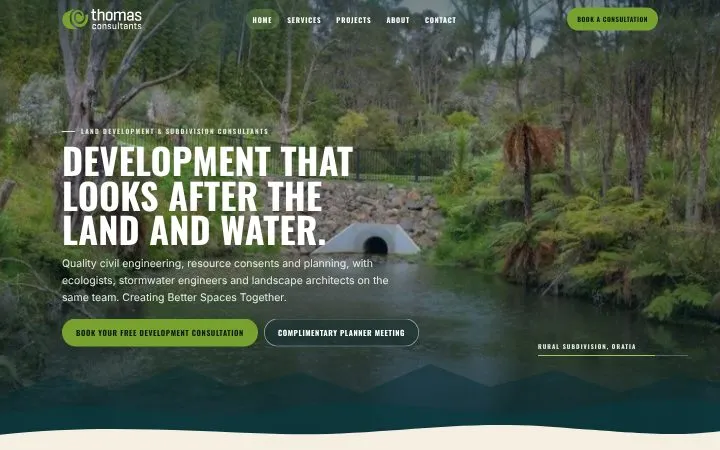
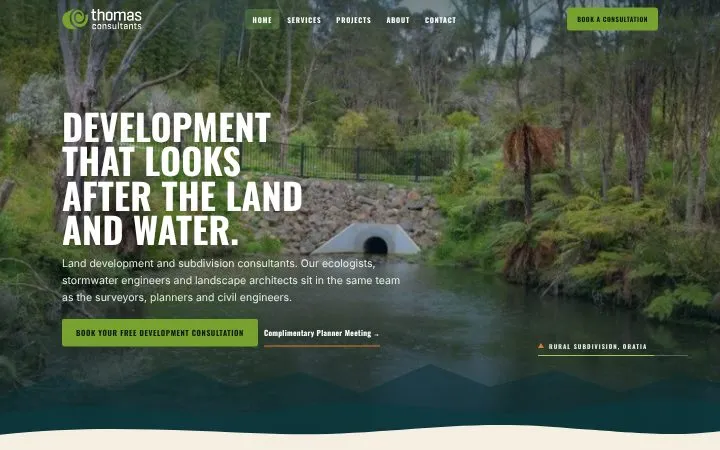
Phase 7 (de-template) in progress
Claude-Session: https://claude.ai/code/session_01Bfoqaxngz2DAAE1X5nW1mk

diff --git a/thomas-consultants/designs/09-kinetic/services.html b/thomas-consultants/designs/09-kinetic/services.html
@@ -583,16 +583,16 @@ h1 em,.h2 em,.velo em,.ln em{display:inline-block}
 .pull--wide{max-width:none;margin-top:clamp(48px,7vw,96px)}
 .pull--wide blockquote{font-size:clamp(1.3rem,2.6vw,2.4rem)}
 /* services: how a job runs */
-.runs{list-style:none;margin:0;padding:0;border-top:1px solid var(--line)}
-.run{display:grid;grid-template-columns:clamp(56px,7vw,110px) minmax(0,1.1fr) minmax(0,1.3fr) clamp(120px,16vw,230px);gap:clamp(16px,3vw,44px);align-items:center;padding:clamp(20px,3vw,36px) 0;border-bottom:1px solid var(--line)}
-.run__n{font-family:var(--display);font-weight:800;font-size:clamp(2rem,4.4vw,4.2rem);line-height:.8;letter-spacing:-.06em;color:var(--lime);font-variant-numeric:tabular-nums}
-.run h3{white-space:nowrap;font-family:var(--display);font-weight:800;text-transform:uppercase;font-size:clamp(1.6rem,min(3.3vw,7vh),3.3rem);line-height:.88;letter-spacing:-.045em;margin:0;transition:transform .6s var(--out)}
-.run:hover h3{transform:translateX(14px)}
-.run__t{margin:10px 0 0;color:var(--lime);font-weight:600}
-.run__d{margin:0;color:var(--muted);max-width:46ch}
-.run__m{aspect-ratio:4/3;border-radius:14px;overflow:hidden;background:var(--ink-3)}
-.run__m img{width:100%;height:100%;object-fit:cover;transition:transform .8s var(--out)}
-.run:hover .run__m img{transform:scale(1.06)}
+.jruns{list-style:none;margin:0;padding:0;border-top:1px solid var(--line)}
+.jrun{display:grid;grid-template-columns:clamp(56px,7vw,110px) minmax(0,1.1fr) minmax(0,1.3fr) clamp(120px,16vw,230px);gap:clamp(16px,3vw,44px);align-items:center;padding:clamp(20px,3vw,36px) 0;border-bottom:1px solid var(--line)}
+.jrun__n{font-family:var(--display);font-weight:800;font-size:clamp(2rem,4.4vw,4.2rem);line-height:.8;letter-spacing:-.06em;color:var(--lime);font-variant-numeric:tabular-nums}
+.jrun h3{white-space:nowrap;font-family:var(--display);font-weight:800;text-transform:uppercase;font-size:clamp(1.6rem,min(3.3vw,7vh),3.3rem);line-height:.88;letter-spacing:-.045em;margin:0;transition:transform .6s var(--out)}
+.jrun:hover h3{transform:translateX(14px)}
+.jrun__t{margin:10px 0 0;color:var(--lime);font-weight:600}
+.jrun__d{margin:0;color:var(--muted);max-width:46ch}
+.jrun__m{aspect-ratio:4/3;border-radius:14px;overflow:hidden;background:var(--ink-3)}
+.jrun__m img{width:100%;height:100%;object-fit:cover;transition:transform .8s var(--out)}
+.jrun:hover .jrun__m img{transform:scale(1.06)}
 /* about: people list */
 .people{list-style:none;margin:0;padding:0;border-top:1px solid var(--ink-line)}
 .person>a,.person>div{display:grid;grid-template-columns:minmax(0,1.5fr) minmax(0,.75fr) minmax(0,1.3fr) 24px;gap:clamp(14px,3vw,40px);align-items:baseline;padding:clamp(18px,2.6vw,30px) 0;border-bottom:1px solid var(--ink-line);text-decoration:none;color:inherit;position:relative}
@@ -625,9 +625,9 @@ h1 em,.h2 em,.velo em,.ln em{display:inline-block}
 .footer__lead{font-family:var(--sans);font-weight:400;font-size:16px;color:var(--muted);max-width:34ch;line-height:1.5}
 .footer__soc{grid-auto-flow:column;justify-content:start;gap:2px 18px!important}
 @media (max-width:900px){
-  .run{grid-template-columns:auto minmax(0,1fr);align-items:start}
-  .run__d{grid-column:2}
-  .run__m{grid-column:2;max-width:320px}
+  .jrun{grid-template-columns:auto minmax(0,1fr);align-items:start}
+  .jrun__d{grid-column:2}
+  .jrun__m{grid-column:2;max-width:320px}
   .person>a,.person>div{grid-template-columns:minmax(0,1fr) 24px}
   .person__r,.person__d{grid-column:1}
   .why2,.offrow{grid-template-columns:minmax(0,1fr)}
@@ -739,7 +739,7 @@ h1 em,.h2 em,.velo em,.ln em{display:inline-block}
   <section class="sheet sheet--ink2 cv" id="process" aria-labelledby="proc-title">
     <div class="wrap">
       <div class="head"><div><h2 class="h2" id="proc-title"><span class="velo">How a job runs</span></h2></div><p>Most subdivisions and developments pass through these four points. Which disciplines you need at each one depends on the site.</p></div>
-      <ol class="runs"><li class="run rv" style="--rd:0.0s"><span class="run__n" aria-hidden="true">01</span><div class="run__v"><h3>Walk it</h3><p class="run__t">Survey and investigate</p></div><p class="run__d">Topographical and boundary survey, soil and contamination testing, ecology where it matters. You learn what the land allows before you spend on design.</p><div class="run__m"><img src="../../assets/img/surveyor-road-800.webp" srcset="../../assets/img/surveyor-road-800.webp 800w, ../../assets/img/surveyor-road-1600.webp 1600w" sizes="(max-width: 900px) 40vw, 16vw" width="1600" height="1080" alt="Surveyor setting up an instrument beside a road" loading="lazy" decoding="async"></div></li><li class="run rv" style="--rd:0.06s"><span class="run__n" aria-hidden="true">02</span><div class="run__v"><h3>Draw it</h3><p class="run__t">Scheme, engineering and consent</p></div><p class="run__d">Planners, engineers and landscape architects draw the scheme together. We lodge the resource consent and answer the council's section 92 questions.</p><div class="run__m"><img src="../../assets/img/team-plans-800.webp" srcset="../../assets/img/team-plans-800.webp 800w, ../../assets/img/team-plans-1600.webp 1600w" sizes="(max-width: 900px) 40vw, 16vw" width="1600" height="1069" alt="Engineers and planners reviewing plans around a table" loading="lazy" decoding="async"></div></li><li class="run rv" style="--rd:0.12s"><span class="run__n" aria-hidden="true">03</span><div class="run__v"><h3>Build it</h3><p class="run__t">Set out and monitor</p></div><p class="run__d">Surveyors set out the works. Engineers monitor construction so drainage, roads and earthworks match the approved plans.</p><div class="run__m"><img src="../../assets/img/roadworks-800.webp" srcset="../../assets/img/roadworks-800.webp 800w, ../../assets/img/roadworks-1600.webp 1600w" sizes="(max-width: 900px) 40vw, 16vw" width="1600" height="759" alt="Road and kerb construction in progress" loading="lazy" decoding="async"></div></li><li class="run rv" style="--rd:0.18s"><span class="run__n" aria-hidden="true">04</span><div class="run__v"><h3>Sign it off</h3><p class="run__t">Certify and title</p></div><p class="run__d">Engineering sign-offs, as-built survey and the paperwork council needs before new titles can issue.</p><div class="run__m"><img src="../../assets/img/street-new-800.webp" srcset="../../assets/img/street-new-800.webp 800w, ../../assets/img/street-new-1600.webp 1600w" sizes="(max-width: 900px) 40vw, 16vw" width="1600" height="1069" alt="A newly completed street of townhouses" loading="lazy" decoding="async"></div></li></ol>
+      <ol class="jruns"><li class="jrun rv" style="--rd:0.0s"><span class="jrun__n" aria-hidden="true">01</span><div class="jrun__v"><h3>Walk it</h3><p class="jrun__t">Survey and investigate</p></div><p class="jrun__d">Topographical and boundary survey, soil and contamination testing, ecology where it matters. You learn what the land allows before you spend on design.</p><div class="jrun__m"><img src="../../assets/img/surveyor-road-800.webp" srcset="../../assets/img/surveyor-road-800.webp 800w, ../../assets/img/surveyor-road-1600.webp 1600w" sizes="(max-width: 900px) 40vw, 16vw" width="1600" height="1080" alt="Surveyor setting up an instrument beside a road" loading="lazy" decoding="async"></div></li><li class="jrun rv" style="--rd:0.06s"><span class="jrun__n" aria-hidden="true">02</span><div class="jrun__v"><h3>Draw it</h3><p class="jrun__t">Scheme, engineering and consent</p></div><p class="jrun__d">Planners, engineers and landscape architects draw the scheme together. We lodge the resource consent and answer the council's section 92 questions.</p><div class="jrun__m"><img src="../../assets/img/team-plans-800.webp" srcset="../../assets/img/team-plans-800.webp 800w, ../../assets/img/team-plans-1600.webp 1600w" sizes="(max-width: 900px) 40vw, 16vw" width="1600" height="1069" alt="Engineers and planners reviewing plans around a table" loading="lazy" decoding="async"></div></li><li class="jrun rv" style="--rd:0.12s"><span class="jrun__n" aria-hidden="true">03</span><div class="jrun__v"><h3>Build it</h3><p class="jrun__t">Set out and monitor</p></div><p class="jrun__d">Surveyors set out the works. Engineers monitor construction so drainage, roads and earthworks match the approved plans.</p><div class="jrun__m"><img src="../../assets/img/roadworks-800.webp" srcset="../../assets/img/roadworks-800.webp 800w, ../../assets/img/roadworks-1600.webp 1600w" sizes="(max-width: 900px) 40vw, 16vw" width="1600" height="759" alt="Road and kerb construction in progress" loading="lazy" decoding="async"></div></li><li class="jrun rv" style="--rd:0.18s"><span class="jrun__n" aria-hidden="true">04</span><div class="jrun__v"><h3>Sign it off</h3><p class="jrun__t">Certify and title</p></div><p class="jrun__d">Engineering sign-offs, as-built survey and the paperwork council needs before new titles can issue.</p><div class="jrun__m"><img src="../../assets/img/street-new-800.webp" srcset="../../assets/img/street-new-800.webp 800w, ../../assets/img/street-new-1600.webp 1600w" sizes="(max-width: 900px) 40vw, 16vw" width="1600" height="1069" alt="A newly completed street of townhouses" loading="lazy" decoding="async"></div></li></ol>
     </div>
   </section>
   <section class="sheet sheet--paper cv" id="faq" aria-labelledby="faq-title">

diff --git a/thomas-consultants/designs/09-kinetic/index.html b/thomas-consultants/designs/09-kinetic/index.html
@@ -583,16 +583,16 @@ h1 em,.h2 em,.velo em,.ln em{display:inline-block}
 .pull--wide{max-width:none;margin-top:clamp(48px,7vw,96px)}
 .pull--wide blockquote{font-size:clamp(1.3rem,2.6vw,2.4rem)}
 /* services: how a job runs */
-.runs{list-style:none;margin:0;padding:0;border-top:1px solid var(--line)}
-.run{display:grid;grid-template-columns:clamp(56px,7vw,110px) minmax(0,1.1fr) minmax(0,1.3fr) clamp(120px,16vw,230px);gap:clamp(16px,3vw,44px);align-items:center;padding:clamp(20px,3vw,36px) 0;border-bottom:1px solid var(--line)}
-.run__n{font-family:var(--display);font-weight:800;font-size:clamp(2rem,4.4vw,4.2rem);line-height:.8;letter-spacing:-.06em;color:var(--lime);font-variant-numeric:tabular-nums}
-.run h3{white-space:nowrap;font-family:var(--display);font-weight:800;text-transform:uppercase;font-size:clamp(1.6rem,min(3.3vw,7vh),3.3rem);line-height:.88;letter-spacing:-.045em;margin:0;transition:transform .6s var(--out)}
-.run:hover h3{transform:translateX(14px)}
-.run__t{margin:10px 0 0;color:var(--lime);font-weight:600}
-.run__d{margin:0;color:var(--muted);max-width:46ch}
-.run__m{aspect-ratio:4/3;border-radius:14px;overflow:hidden;background:var(--ink-3)}
-.run__m img{width:100%;height:100%;object-fit:cover;transition:transform .8s var(--out)}
-.run:hover .run__m img{transform:scale(1.06)}
+.jruns{list-style:none;margin:0;padding:0;border-top:1px solid var(--line)}
+.jrun{display:grid;grid-template-columns:clamp(56px,7vw,110px) minmax(0,1.1fr) minmax(0,1.3fr) clamp(120px,16vw,230px);gap:clamp(16px,3vw,44px);align-items:center;padding:clamp(20px,3vw,36px) 0;border-bottom:1px solid var(--line)}
+.jrun__n{font-family:var(--display);font-weight:800;font-size:clamp(2rem,4.4vw,4.2rem);line-height:.8;letter-spacing:-.06em;color:var(--lime);font-variant-numeric:tabular-nums}
+.jrun h3{white-space:nowrap;font-family:var(--display);font-weight:800;text-transform:uppercase;font-size:clamp(1.6rem,min(3.3vw,7vh),3.3rem);line-height:.88;letter-spacing:-.045em;margin:0;transition:transform .6s var(--out)}
+.jrun:hover h3{transform:translateX(14px)}
+.jrun__t{margin:10px 0 0;color:var(--lime);font-weight:600}
+.jrun__d{margin:0;color:var(--muted);max-width:46ch}
+.jrun__m{aspect-ratio:4/3;border-radius:14px;overflow:hidden;background:var(--ink-3)}
+.jrun__m img{width:100%;height:100%;object-fit:cover;transition:transform .8s var(--out)}
+.jrun:hover .jrun__m img{transform:scale(1.06)}
 /* about: people list */
 .people{list-style:none;margin:0;padding:0;border-top:1px solid var(--ink-line)}
 .person>a,.person>div{display:grid;grid-template-columns:minmax(0,1.5fr) minmax(0,.75fr) minmax(0,1.3fr) 24px;gap:clamp(14px,3vw,40px);align-items:baseline;padding:clamp(18px,2.6vw,30px) 0;border-bottom:1px solid var(--ink-line);text-decoration:none;color:inherit;position:relative}
@@ -625,9 +625,9 @@ h1 em,.h2 em,.velo em,.ln em{display:inline-block}
 .footer__lead{font-family:var(--sans);font-weight:400;font-size:16px;color:var(--muted);max-width:34ch;line-height:1.5}
 .footer__soc{grid-auto-flow:column;justify-content:start;gap:2px 18px!important}
 @media (max-width:900px){
-  .run{grid-template-columns:auto minmax(0,1fr);align-items:start}
-  .run__d{grid-column:2}
-  .run__m{grid-column:2;max-width:320px}
+  .jrun{grid-template-columns:auto minmax(0,1fr);align-items:start}
+  .jrun__d{grid-column:2}
+  .jrun__m{grid-column:2;max-width:320px}
   .person>a,.person>div{grid-template-columns:minmax(0,1fr) 24px}
   .person__r,.person__d{grid-column:1}
   .why2,.offrow{grid-template-columns:minmax(0,1fr)}
@@ -669,7 +669,7 @@ h1 em,.h2 em,.velo em,.ln em{display:inline-block}
     <div class="wrap hero__in">
       <h1 id="hero-title" aria-label="We turn land into homes, parks, streets and places."><span class="ln"><span class="velo" style="--d:0s">We turn</span></span><span class="ln"><span class="velo" style="--d:.08s">land into</span></span><span class="ln"><span class="rotwrap" style="--d:.16s"><span class="rotate js-rotate" aria-hidden="true"><span class="is-on">homes.</span><span>parks.</span><span>streets.</span><span>places.</span></span></span></span></h1>
       <div class="hero__row">
-        <div class="fade"><p class="hero__lede">Land development and subdivision consultants in Auckland, Manukau and Christchurch. Surveying, planning, engineering, landscape and environmental work from the same office.</p>
+        <div class="fade"><p class="hero__lede">Land development and subdivision consultants in Auckland, Manukau and Christchurch, with every discipline in the same office.</p>
           <div class="ctas ctas--solo"><a class="btn magnetic" href="contact.html" data-label="Contact">Book Your Free Development Consultation <svg viewBox="0 0 16 16" fill="none" stroke="currentColor" stroke-width="1.8" aria-hidden="true"><path d="M4 12 12 4M5 4h7v7"/></svg></a><a class="link" href="contact.html#planner" data-label="Contact">Complimentary Planner Meeting</a></div></div>
         <div class="slidemeta fade" aria-hidden="true"><b class="js-slide-n">01</b> / 03 · <span class="js-slide-cap">Our team at Churchill Park lookout</span><div class="slidemeta__bar js-slide-bar"><i></i></div></div>
       </div>

diff --git a/thomas-consultants/designs/09-kinetic/about.html b/thomas-consultants/designs/09-kinetic/about.html
@@ -583,16 +583,16 @@ h1 em,.h2 em,.velo em,.ln em{display:inline-block}
 .pull--wide{max-width:none;margin-top:clamp(48px,7vw,96px)}
 .pull--wide blockquote{font-size:clamp(1.3rem,2.6vw,2.4rem)}
 /* services: how a job runs */
-.runs{list-style:none;margin:0;padding:0;border-top:1px solid var(--line)}
-.run{display:grid;grid-template-columns:clamp(56px,7vw,110px) minmax(0,1.1fr) minmax(0,1.3fr) clamp(120px,16vw,230px);gap:clamp(16px,3vw,44px);align-items:center;padding:clamp(20px,3vw,36px) 0;border-bottom:1px solid var(--line)}
-.run__n{font-family:var(--display);font-weight:800;font-size:clamp(2rem,4.4vw,4.2rem);line-height:.8;letter-spacing:-.06em;color:var(--lime);font-variant-numeric:tabular-nums}
-.run h3{white-space:nowrap;font-family:var(--display);font-weight:800;text-transform:uppercase;font-size:clamp(1.6rem,min(3.3vw,7vh),3.3rem);line-height:.88;letter-spacing:-.045em;margin:0;transition:transform .6s var(--out)}
-.run:hover h3{transform:translateX(14px)}
-.run__t{margin:10px 0 0;color:var(--lime);font-weight:600}
-.run__d{margin:0;color:var(--muted);max-width:46ch}
-.run__m{aspect-ratio:4/3;border-radius:14px;overflow:hidden;background:var(--ink-3)}
-.run__m img{width:100%;height:100%;object-fit:cover;transition:transform .8s var(--out)}
-.run:hover .run__m img{transform:scale(1.06)}
+.jruns{list-style:none;margin:0;padding:0;border-top:1px solid var(--line)}
+.jrun{display:grid;grid-template-columns:clamp(56px,7vw,110px) minmax(0,1.1fr) minmax(0,1.3fr) clamp(120px,16vw,230px);gap:clamp(16px,3vw,44px);align-items:center;padding:clamp(20px,3vw,36px) 0;border-bottom:1px solid var(--line)}
+.jrun__n{font-family:var(--display);font-weight:800;font-size:clamp(2rem,4.4vw,4.2rem);line-height:.8;letter-spacing:-.06em;color:var(--lime);font-variant-numeric:tabular-nums}
+.jrun h3{white-space:nowrap;font-family:var(--display);font-weight:800;text-transform:uppercase;font-size:clamp(1.6rem,min(3.3vw,7vh),3.3rem);line-height:.88;letter-spacing:-.045em;margin:0;transition:transform .6s var(--out)}
+.jrun:hover h3{transform:translateX(14px)}
+.jrun__t{margin:10px 0 0;color:var(--lime);font-weight:600}
+.jrun__d{margin:0;color:var(--muted);max-width:46ch}
+.jrun__m{aspect-ratio:4/3;border-radius:14px;overflow:hidden;background:var(--ink-3)}
+.jrun__m img{width:100%;height:100%;object-fit:cover;transition:transform .8s var(--out)}
+.jrun:hover .jrun__m img{transform:scale(1.06)}
 /* about: people list */
 .people{list-style:none;margin:0;padding:0;border-top:1px solid var(--ink-line)}
 .person>a,.person>div{display:grid;grid-template-columns:minmax(0,1.5fr) minmax(0,.75fr) minmax(0,1.3fr) 24px;gap:clamp(14px,3vw,40px);align-items:baseline;padding:clamp(18px,2.6vw,30px) 0;border-bottom:1px solid var(--ink-line);text-decoration:none;color:inherit;position:relative}
@@ -625,9 +625,9 @@ h1 em,.h2 em,.velo em,.ln em{display:inline-block}
 .footer__lead{font-family:var(--sans);font-weight:400;font-size:16px;color:var(--muted);max-width:34ch;line-height:1.5}
 .footer__soc{grid-auto-flow:column;justify-content:start;gap:2px 18px!important}
 @media (max-width:900px){
-  .run{grid-template-columns:auto minmax(0,1fr);align-items:start}
-  .run__d{grid-column:2}
-  .run__m{grid-column:2;max-width:320px}
+  .jrun{grid-template-columns:auto minmax(0,1fr);align-items:start}
+  .jrun__d{grid-column:2}
+  .jrun__m{grid-column:2;max-width:320px}
   .person>a,.person>div{grid-template-columns:minmax(0,1fr) 24px}
   .person__r,.person__d{grid-column:1}
   .why2,.offrow{grid-template-columns:minmax(0,1fr)}

diff --git a/thomas-consultants/designs/09-kinetic/contact.html b/thomas-consultants/designs/09-kinetic/contact.html
@@ -583,16 +583,16 @@ h1 em,.h2 em,.velo em,.ln em{display:inline-block}
 .pull--wide{max-width:none;margin-top:clamp(48px,7vw,96px)}
 .pull--wide blockquote{font-size:clamp(1.3rem,2.6vw,2.4rem)}
 /* services: how a job runs */
-.runs{list-style:none;margin:0;padding:0;border-top:1px solid var(--line)}
-.run{display:grid;grid-template-columns:clamp(56px,7vw,110px) minmax(0,1.1fr) minmax(0,1.3fr) clamp(120px,16vw,230px);gap:clamp(16px,3vw,44px);align-items:center;padding:clamp(20px,3vw,36px) 0;border-bottom:1px solid var(--line)}
-.run__n{font-family:var(--display);font-weight:800;font-size:clamp(2rem,4.4vw,4.2rem);line-height:.8;letter-spacing:-.06em;color:var(--lime);font-variant-numeric:tabular-nums}
-.run h3{white-space:nowrap;font-family:var(--display);font-weight:800;text-transform:uppercase;font-size:clamp(1.6rem,min(3.3vw,7vh),3.3rem);line-height:.88;letter-spacing:-.045em;margin:0;transition:transform .6s var(--out)}
-.run:hover h3{transform:translateX(14px)}
-.run__t{margin:10px 0 0;color:var(--lime);font-weight:600}
-.run__d{margin:0;color:var(--muted);max-width:46ch}
-.run__m{aspect-ratio:4/3;border-radius:14px;overflow:hidden;background:var(--ink-3)}
-.run__m img{width:100%;height:100%;object-fit:cover;transition:transform .8s var(--out)}
-.run:hover .run__m img{transform:scale(1.06)}
+.jruns{list-style:none;margin:0;padding:0;border-top:1px solid var(--line)}
+.jrun{display:grid;grid-template-columns:clamp(56px,7vw,110px) minmax(0,1.1fr) minmax(0,1.3fr) clamp(120px,16vw,230px);gap:clamp(16px,3vw,44px);align-items:center;padding:clamp(20px,3vw,36px) 0;border-bottom:1px solid var(--line)}
+.jrun__n{font-family:var(--display);font-weight:800;font-size:clamp(2rem,4.4vw,4.2rem);line-height:.8;letter-spacing:-.06em;color:var(--lime);font-variant-numeric:tabular-nums}
+.jrun h3{white-space:nowrap;font-family:var(--display);font-weight:800;text-transform:uppercase;font-size:clamp(1.6rem,min(3.3vw,7vh),3.3rem);line-height:.88;letter-spacing:-.045em;margin:0;transition:transform .6s var(--out)}
+.jrun:hover h3{transform:translateX(14px)}
+.jrun__t{margin:10px 0 0;color:var(--lime);font-weight:600}
+.jrun__d{margin:0;color:var(--muted);max-width:46ch}
+.jrun__m{aspect-ratio:4/3;border-radius:14px;overflow:hidden;background:var(--ink-3)}
+.jrun__m img{width:100%;height:100%;object-fit:cover;transition:transform .8s var(--out)}
+.jrun:hover .jrun__m img{transform:scale(1.06)}
 /* about: people list */
 .people{list-style:none;margin:0;padding:0;border-top:1px solid var(--ink-line)}
 .person>a,.person>div{display:grid;grid-template-columns:minmax(0,1.5fr) minmax(0,.75fr) minmax(0,1.3fr) 24px;gap:clamp(14px,3vw,40px);align-items:baseline;padding:clamp(18px,2.6vw,30px) 0;border-bottom:1px solid var(--ink-line);text-decoration:none;color:inherit;position:relative}
@@ -625,9 +625,9 @@ h1 em,.h2 em,.velo em,.ln em{display:inline-block}
 .footer__lead{font-family:var(--sans);font-weight:400;font-size:16px;color:var(--muted);max-width:34ch;line-height:1.5}
 .footer__soc{grid-auto-flow:column;justify-content:start;gap:2px 18px!important}
 @media (max-width:900px){
-  .run{grid-template-columns:auto minmax(0,1fr);align-items:start}
-  .run__d{grid-column:2}
-  .run__m{grid-column:2;max-width:320px}
+  .jrun{grid-template-columns:auto minmax(0,1fr);align-items:start}
+  .jrun__d{grid-column:2}
+  .jrun__m{grid-column:2;max-width:320px}
   .person>a,.person>div{grid-template-columns:minmax(0,1fr) 24px}
   .person__r,.person__d{grid-column:1}
   .why2,.offrow{grid-template-columns:minmax(0,1fr)}

diff --git a/thomas-consultants/designs/09-kinetic/project.html b/thomas-consultants/designs/09-kinetic/project.html
@@ -583,16 +583,16 @@ h1 em,.h2 em,.velo em,.ln em{display:inline-block}
 .pull--wide{max-width:none;margin-top:clamp(48px,7vw,96px)}
 .pull--wide blockquote{font-size:clamp(1.3rem,2.6vw,2.4rem)}
 /* services: how a job runs */
-.runs{list-style:none;margin:0;padding:0;border-top:1px solid var(--line)}
-.run{display:grid;grid-template-columns:clamp(56px,7vw,110px) minmax(0,1.1fr) minmax(0,1.3fr) clamp(120px,16vw,230px);gap:clamp(16px,3vw,44px);align-items:center;padding:clamp(20px,3vw,36px) 0;border-bottom:1px solid var(--line)}
-.run__n{font-family:var(--display);font-weight:800;font-size:clamp(2rem,4.4vw,4.2rem);line-height:.8;letter-spacing:-.06em;color:var(--lime);font-variant-numeric:tabular-nums}
-.run h3{white-space:nowrap;font-family:var(--display);font-weight:800;text-transform:uppercase;font-size:clamp(1.6rem,min(3.3vw,7vh),3.3rem);line-height:.88;letter-spacing:-.045em;margin:0;transition:transform .6s var(--out)}
-.run:hover h3{transform:translateX(14px)}
-.run__t{margin:10px 0 0;color:var(--lime);font-weight:600}
-.run__d{margin:0;color:var(--muted);max-width:46ch}
-.run__m{aspect-ratio:4/3;border-radius:14px;overflow:hidden;background:var(--ink-3)}
-.run__m img{width:100%;height:100%;object-fit:cover;transition:transform .8s var(--out)}
-.run:hover .run__m img{transform:scale(1.06)}
+.jruns{list-style:none;margin:0;padding:0;border-top:1px solid var(--line)}
+.jrun{display:grid;grid-template-columns:clamp(56px,7vw,110px) minmax(0,1.1fr) minmax(0,1.3fr) clamp(120px,16vw,230px);gap:clamp(16px,3vw,44px);align-items:center;padding:clamp(20px,3vw,36px) 0;border-bottom:1px solid var(--line)}
+.jrun__n{font-family:var(--display);font-weight:800;font-size:clamp(2rem,4.4vw,4.2rem);line-height:.8;letter-spacing:-.06em;color:var(--lime);font-variant-numeric:tabular-nums}
+.jrun h3{white-space:nowrap;font-family:var(--display);font-weight:800;text-transform:uppercase;font-size:clamp(1.6rem,min(3.3vw,7vh),3.3rem);line-height:.88;letter-spacing:-.045em;margin:0;transition:transform .6s var(--out)}
+.jrun:hover h3{transform:translateX(14px)}
+.jrun__t{margin:10px 0 0;color:var(--lime);font-weight:600}
+.jrun__d{margin:0;color:var(--muted);max-width:46ch}
+.jrun__m{aspect-ratio:4/3;border-radius:14px;overflow:hidden;background:var(--ink-3)}
+.jrun__m img{width:100%;height:100%;object-fit:cover;transition:transform .8s var(--out)}
+.jrun:hover .jrun__m img{transform:scale(1.06)}
 /* about: people list */
 .people{list-style:none;margin:0;padding:0;border-top:1px solid var(--ink-line)}
 .person>a,.person>div{display:grid;grid-template-columns:minmax(0,1.5fr) minmax(0,.75fr) minmax(0,1.3fr) 24px;gap:clamp(14px,3vw,40px);align-items:baseline;padding:clamp(18px,2.6vw,30px) 0;border-bottom:1px solid var(--ink-line);text-decoration:none;color:inherit;position:relative}
@@ -625,9 +625,9 @@ h1 em,.h2 em,.velo em,.ln em{display:inline-block}
 .footer__lead{font-family:var(--sans);font-weight:400;font-size:16px;color:var(--muted);max-width:34ch;line-height:1.5}
 .footer__soc{grid-auto-flow:column;justify-content:start;gap:2px 18px!important}
 @media (max-width:900px){
-  .run{grid-template-columns:auto minmax(0,1fr);align-items:start}
-  .run__d{grid-column:2}
-  .run__m{grid-column:2;max-width:320px}
+  .jrun{grid-template-columns:auto minmax(0,1fr);align-items:start}
+  .jrun__d{grid-column:2}
+  .jrun__m{grid-column:2;max-width:320px}
   .person>a,.person>div{grid-template-columns:minmax(0,1fr) 24px}
   .person__r,.person__d{grid-column:1}
   .why2,.offrow{grid-template-columns:minmax(0,1fr)}

diff --git a/thomas-consultants/designs/09-kinetic/projects.html b/thomas-consultants/designs/09-kinetic/projects.html
@@ -583,16 +583,16 @@ h1 em,.h2 em,.velo em,.ln em{display:inline-block}
 .pull--wide{max-width:none;margin-top:clamp(48px,7vw,96px)}
 .pull--wide blockquote{font-size:clamp(1.3rem,2.6vw,2.4rem)}
 /* services: how a job runs */
-.runs{list-style:none;margin:0;padding:0;border-top:1px solid var(--line)}
-.run{display:grid;grid-template-columns:clamp(56px,7vw,110px) minmax(0,1.1fr) minmax(0,1.3fr) clamp(120px,16vw,230px);gap:clamp(16px,3vw,44px);align-items:center;padding:clamp(20px,3vw,36px) 0;border-bottom:1px solid var(--line)}
-.run__n{font-family:var(--display);font-weight:800;font-size:clamp(2rem,4.4vw,4.2rem);line-height:.8;letter-spacing:-.06em;color:var(--lime);font-variant-numeric:tabular-nums}
-.run h3{white-space:nowrap;font-family:var(--display);font-weight:800;text-transform:uppercase;font-size:clamp(1.6rem,min(3.3vw,7vh),3.3rem);line-height:.88;letter-spacing:-.045em;margin:0;transition:transform .6s var(--out)}
-.run:hover h3{transform:translateX(14px)}
-.run__t{margin:10px 0 0;color:var(--lime);font-weight:600}
-.run__d{margin:0;color:var(--muted);max-width:46ch}
-.run__m{aspect-ratio:4/3;border-radius:14px;overflow:hidden;background:var(--ink-3)}
-.run__m img{width:100%;height:100%;object-fit:cover;transition:transform .8s var(--out)}
-.run:hover .run__m img{transform:scale(1.06)}
+.jruns{list-style:none;margin:0;padding:0;border-top:1px solid var(--line)}
+.jrun{display:grid;grid-template-columns:clamp(56px,7vw,110px) minmax(0,1.1fr) minmax(0,1.3fr) clamp(120px,16vw,230px);gap:clamp(16px,3vw,44px);align-items:center;padding:clamp(20px,3vw,36px) 0;border-bottom:1px solid var(--line)}
+.jrun__n{font-family:var(--display);font-weight:800;font-size:clamp(2rem,4.4vw,4.2rem);line-height:.8;letter-spacing:-.06em;color:var(--lime);font-variant-numeric:tabular-nums}
+.jrun h3{white-space:nowrap;font-family:var(--display);font-weight:800;text-transform:uppercase;font-size:clamp(1.6rem,min(3.3vw,7vh),3.3rem);line-height:.88;letter-spacing:-.045em;margin:0;transition:transform .6s var(--out)}
+.jrun:hover h3{transform:translateX(14px)}
+.jrun__t{margin:10px 0 0;color:var(--lime);font-weight:600}
+.jrun__d{margin:0;color:var(--muted);max-width:46ch}
+.jrun__m{aspect-ratio:4/3;border-radius:14px;overflow:hidden;background:var(--ink-3)}
+.jrun__m img{width:100%;height:100%;object-fit:cover;transition:transform .8s var(--out)}
+.jrun:hover .jrun__m img{transform:scale(1.06)}
 /* about: people list */
 .people{list-style:none;margin:0;padding:0;border-top:1px solid var(--ink-line)}
 .person>a,.person>div{display:grid;grid-template-columns:minmax(0,1.5fr) minmax(0,.75fr) minmax(0,1.3fr) 24px;gap:clamp(14px,3vw,40px);align-items:baseline;padding:clamp(18px,2.6vw,30px) 0;border-bottom:1px solid var(--ink-line);text-decoration:none;color:inherit;position:relative}
@@ -625,9 +625,9 @@ h1 em,.h2 em,.velo em,.ln em{display:inline-block}
 .footer__lead{font-family:var(--sans);font-weight:400;font-size:16px;color:var(--muted);max-width:34ch;line-height:1.5}
 .footer__soc{grid-auto-flow:column;justify-content:start;gap:2px 18px!important}
 @media (max-width:900px){
-  .run{grid-template-columns:auto minmax(0,1fr);align-items:start}
-  .run__d{grid-column:2}
-  .run__m{grid-column:2;max-width:320px}
+  .jrun{grid-template-columns:auto minmax(0,1fr);align-items:start}
+  .jrun__d{grid-column:2}
+  .jrun__m{grid-column:2;max-width:320px}
   .person>a,.person>div{grid-template-columns:minmax(0,1fr) 24px}
   .person__r,.person__d{grid-column:1}
   .why2,.offrow{grid-template-columns:minmax(0,1fr)}
